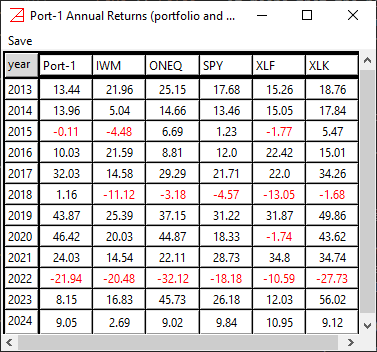
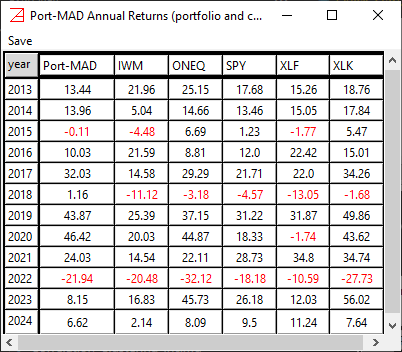
Universal Port
Adjustments for Universal portfolio

diff --git a/azapyGUI/WeightsWindow.py b/azapyGUI/WeightsWindow.py
@@ -16,6 +16,7 @@ from azapyGUI.modelParametersValidation import _validDateMMDDYYYY, _validFloat
 from azapyGUI.GetMktData import GetMktData
 from azapyGUI.mktDataValidation import mkt_today
 from azapyGUI.DF_Window import DF_Window
+import azapyGUI.azHelper as azHelper
 
 
 class WeightsWindow():
@@ -188,7 +189,7 @@ class WeightsWindow():
         for mo in model.optimizer.values():
             if 'hlength' in mo['param'].keys():
                 hlength = max(hlength, mo['param']['hlength'])       
-        sdate = edate - pd.DateOffset(days=np.ceil(hlength * 365.25) + 10)
+        sdate = self._edate - pd.DateOffset(days=np.ceil(hlength * 365.25) + 10)
         self._sdate = config._bday.rollback(sdate).normalize().tz_localize(None)
         
         # provider, force
@@ -196,11 +197,11 @@ class WeightsWindow():
         self._force = self._ent_force.get()
         
         if self._old_param is not None:
-            if [self._sdate, self._provider, self._force] == self._old_param:
+            if [self._edate, self._provider, self._force] == self._old_param:
                 return False
         if (self._dfw is not None) and self._dfw.winfo_exists():
             self._dfw.destroy()
-        self._old_param = [self._sdate, self._provider, self._force]
+        self._old_param = [self._edate, self._provider, self._force]
         return True
             
 
@@ -219,8 +220,8 @@ class WeightsWindow():
     
     def _computeWeights(self):
         portdata = config.PortDataDict[self._pname]
-        mktdata = {symb: config.MktDataDict[symb].mktdata.copy() for symb in portdata.symbols}
-        
+        mktdata = {symb: config.MktDataDict[symb].get_mktdata(self._edate).copy() for symb in portdata.symbols}
+
         optname = list(portdata.optimizer.keys())[0]
         if configModels.get_comptype(optname) == 'standalone':
             fmname = configModels.get_model_family(optname)
@@ -228,12 +229,11 @@ class WeightsWindow():
             eff_param = deepcopy(portdata.optimizer[optname]['param'])
             eff_param['sdate'] = self._sdate
             eff_param['edate'] = self._edate
-            self._pipe = getattr(az, mname)(**portdata.optimizer[optname]['param'])
+            exec(f"self._pipe = {mname}(**eff_param)")
         else:
             model = []
-            
             sel_list = [None] * len(portdata.selectors.keys())
-            for name, vv in portdata.selectors.items():
+            for vv in portdata.selectors.values():
                 sel_list[vv['index']] = vv
             for vv in sel_list:
                 mname = configModels.selector_models[vv['name']]['azapy']
@@ -241,7 +241,7 @@ class WeightsWindow():
                 moo = oo(**vv['param'])
                 model.append(moo)
                 
-            for mopt, vv in portdata.optimizer.items():
+            for vv in portdata.optimizer.values():
                 fmname = configModels.get_model_family(vv['name'])
                 mname = configModels.portfolio_model_family[fmname][vv['name']]['azapy']
                 if mname == 'EWPEngine':
@@ -252,13 +252,13 @@ class WeightsWindow():
                     model.append(moo)
             
             self._pipe = az.ModelPipeline(model)
-            self._weights = self._pipe.getWeights(mktdata, verbose=False)
 
-            if self._pipe.status == 0: return True
-        
-            msg = ('Numerical errors in weights computation. Abort!')
-            tk.messagebox.showwarning("Warning", message=msg, parent=self._window)
-            return False
+        self._weights = self._pipe.getWeights(mktdata, verbose=False)
+        if self._pipe.status == 0: return True
+    
+        msg = 'Numerical errors in weights computation. Abort!'
+        tk.messagebox.showwarning("Warning", message=msg, parent=self._window)
+        return False
 
 
     def _btn_refresh_func(self):
@@ -271,7 +271,7 @@ class WeightsWindow():
                 return
             if not self._computeWeights():
                 return
-        
+
         df = (pd.DataFrame(self._weights) * 100).round(2)
         df.columns = ['weight']
         df.index.name = 'symbol'

diff --git a/azapyGUI/configModels.py b/azapyGUI/configModels.py
@@ -433,8 +433,8 @@ greedy_models = {'Kelly': {'param': {'freq': __freq_val,
                                                              'validate': mpv._validate_nothing,
                                                              'tip': configTips._dirichlet_alpha_param_tip,
                                                              },
-                                         'variance_reduction': {'default': '1',
-                                                                'values': ['0', '1'],
+                                         'variance_reduction': {'default': 'True',
+                                                                'values': ['True', 'False'],
                                                                 'visible': True,
                                                                 'validate': mpv._validate_variance_reduction,
                                                                 'tip': configTips._variance_reduction_param_tip,
@@ -465,7 +465,7 @@ greedy_models = {'Kelly': {'param': {'freq': __freq_val,
                                'validate': [{'dirichlet_alpha': mpv._validate_dirichlet_alpha}],
                                'tip': configTips._Universal_model_tip,
                                'help': configHelps._Universal_model_help,
-                               'azapy': ['UniversalEngine', 'Port_Universal']
+                               'azapy': ['azHelper.UniversalEngineWrap', 'Port_Universal']
                                },
                  }
 

diff --git a/azapyGUI/azHelper.py b/azapyGUI/azHelper.py
@@ -1,0 +1,27 @@
+import pandas as pd
+import azapy as az
+
+import azapyGUI.config as config
+
+# need to mode this to azapy 
+def schedule_date(sdate, edate, freq='Q', fixoffset=-1, **kwargs):
+    qdate = pd.Timestamp(edate).to_period(freq).end_time.normalize().tz_localize(None)
+    noffset = -pd.bdate_range(edate, qdate, freq=config._bday).size + 1 - fixoffset
+    return az.schedule_simple(sdate=sdate, edate=edate, freq=freq, 
+                              noffset=noffset, fixoffset=fixoffset, 
+                              calendar=config.calendar)
+
+# need to incorporate into azapy
+def UniversalEngineWrap(mktdata=None, colname='adjusted', freq='M', name='Universal',
+                 schedule=None, sdate=None, edate='today', noffset=0, 
+                 fixoffset=-1, hlength=12, dirichlet_alpha=None, 
+                 variance_reduction=True, nr_batches=16, mc_paths=100, 
+                 mc_seed=42, verbose=False):
+    
+    fixing_schedule = schedule_date(sdate, edate, freq=freq, fixoffset=fixoffset)
+    return az.UniversalEngine(mktdata=mktdata, colname=colname, freq=freq, 
+                              schedule=fixing_schedule,
+                              sdate=sdate, edate=edate, noffset=noffset, fixoffset=fixoffset, hlength=hlength,
+                              dirichlet_alpha=dirichlet_alpha, variance_reduction=variance_reduction,
+                              nr_batches=nr_batches, mc_paths=mc_paths, mc_seed=mc_seed,
+                              verbose=verbose)

diff --git a/azapyGUI/BacktestComputation.py b/azapyGUI/BacktestComputation.py
@@ -91,7 +91,7 @@ class BacktestComputation:
         
     def _computePort_standalone(self, pname):
         portdata = config.PortDataDict[pname]
-        mktdata = {symb: config.MktDataDict[symb].mktdata.copy() for symb in portdata.symbols}
+        mktdata = {symb: config.MktDataDict[symb].get_mktdata().copy() for symb in portdata.symbols}
         
         optname = list(config.PortDataDict[pname].optimizer.keys())[0]
         fmname = configModels.get_model_family(optname)

diff --git a/azapyGUI/TimeSeriesViewWindow.py b/azapyGUI/TimeSeriesViewWindow.py
@@ -187,9 +187,6 @@ class TimeSeriesViewWindow(tk.Toplevel):
                 if (dd.index[-1] != sds) or (dd.index[0] != ede): 
                     self._isEqualLines = False
                     return
-            
-  
-        print(f"ML {self._isMultiLines} MC {self._isMultiColumns} EQ {self._isEqualLines}", flush=True)
 
 
     def _prep_fig(self):

diff --git a/azapyGUI/MktDataNode.py b/azapyGUI/MktDataNode.py
@@ -28,3 +28,7 @@ class MktDataNode:
         if self._summary is None: self._summary = az.summary_MkTdata(self.mktdata)
         return (self._summary.na_total[0] + self._summary.cont[0]) > 0
     
+    
+    def get_mktdata(self, edate=None):
+        return self.mktdata if edate is None else self.mktdata[self.mktdata.index <= edate]
+    

diff --git a/azapyGUI/modelParametersValidation.py b/azapyGUI/modelParametersValidation.py
@@ -280,7 +280,7 @@ def _validate_dirichlet_alpha(param, ns):
 
 def _validate_variance_reduction(param):
     field = 'variance_reduction'
-    param[field] = int(param[field])
+    param[field] = True if param[field] == 'True' else False
     return True, param[field]
     
 

diff --git a/docs/Quick_Start.md b/docs/Quick_Start.md
@@ -5,9 +5,10 @@ Package installation: *pip install azapyGUI*
 
 ## Start ##
 
-To start the application you need to write the following 2-line python script (let's call it `my_azapy.py`)
+To start the application you need to write the following 2-line python script. 
+For the purpose of this example, let's call it `my_azapy.py`.
 
-```
+```python
 import azapyGUI
 azapyGUI.start()
 ```
@@ -34,7 +35,7 @@ In the first tab, called `Directories`, you must make three choices.
 When saving/loading a project, you will be prompt to this 
 directory (you can always change it). 
 2. `Market Data Directory` - local (buffer) market data directory. Once the historical data is retrieved form 
-the provider, a copy is stored in this directory. Successive calls for the same market data will read data first from 
+the provider, a copy is stored in this directory. Successive calls for the same market data will try first to access data from
 this directory and then, and only if there is a need to update the data, from the provider. This will speed up considerable 
 the computations (in general accessing repeatedly the same provider data over the internet may add up to a 
 considerable amount of time). The market data stored in this directory is not intended to be consumed by other 
@@ -63,7 +64,7 @@ A `Portfolio Edit` window will popup.
 Here we will enter the portfolio information: name, components, and optimization model.
 1. Name - on the entry space, right of label `Edit Portfolio`, replace the suggestion `MyPort` with 
     the name you want for this portfolio (try to chose something short and meaningful for you). For
-    our example let us type `Port-1`. I know, it is not very inspiring or meaningful, but it will
+    our example let us type `Port-MAD`. I know, it is not very inspiring or meaningful, but it will
     help us to navigate this example. 
 2. Portfolio Components - on the left panel enter the symbols of the portfolio components. 
     For our example let's type SPY, ONEQ, IWM, XLK, and XLF. You have to enter one symbol name per cell. 
@@ -90,7 +91,7 @@ Here we will enter the portfolio information: name, components, and optimization
     (although the length of the historical data is only 1 day - hardly enough for any computation). 
 3. Optimization Model - although there are many and some of them very complex choices, for this 
     example we will make a simple choices. On the third drop-down list under the label `Optimization Model:` 
-    click on `mMAD` (mixture Mean Absolute Deviation). An mMAD model parameter window will popup.
+    click on `mMAD` (mixture Mean Absolute Deviation). An mMAD edit model parameter window will popup.
 
 ![alt text](panels/mMAD_model_panel.png)
 
@@ -120,14 +121,14 @@ The `Backtesting` window will popup.
 
 We will accept the default values. Later we will discuss in detail all available options. 
 However, it is worth mentioning a few features now. The name of our portfolio is at the top
-of the screen. In general, `azapyGUI` allows for multiple portfolio backtesting (for performance 
-comparisons). In this case the the list of portfolio names will be visible at the top of
+of the screen. In general, `azapyGUI` allows for simultaneous multiple portfolio backtesting. 
+In this case the the list of portfolio names will be visible at the top of
 the window. End date is set to `today` (*i.e.*, most recent market closing date) and the 
 start date is set to `1/1/2012` (*i.e.*, the first market closing date after, and including, 
 `1/1/2012`). The rebalancing date is set 3 business days before (this is the meaning of 
 `-3` value for `Bday offset` field) the end of the calendaristic quarter (the quarterly reset 
 was defined by the model parameter, *i.e.*, `Q` choice for `freq` value). The fixing date
-(*i.e.*, the closing day relative to witch the portfolio weights are computed) is define 
+(*i.e.*, the closing day relative to witch the portfolio weights are computed) is defined 
 as the closing day before the rebalancing day (*i.e.*, the `-1` value for `Fixing offset` field).
 A check of `Nr Shares int` box, stands for using whole numbers (opposed to fractional)
 of shares (therefore the portfolio will be subject to rebalancing round off errors - in practice they
@@ -164,7 +165,7 @@ Another important `azapyGUI` functionality is the computation of weights and the
 to rebalance an exiting portfolio. 
 
 Let's imagine that we are after today closing and tomorrow we would like to initiate a position in
-`Port-1`. We will need to compute the weights and the number of shares that we need to buy. 
+`Port-MAD`. We will need to compute the weights and the number of shares that we need to buy. 
 To initiate this computations, let's go back to the main panel, right click the mouse on the portfolio 
 name, and select `Rebalance` item. The `Rebalance` window will popup.
 
@@ -176,14 +177,20 @@ You can change this value to an actual amount of dollars you want to allocate to
 Then, if you press the `Weights` button, `azapyGUI` will return a report showing the value of the weights 
 for each portfolio component. This is a useful information to understand the capital allocation. 
 Further, if we press on the `Treading Sheet` button, the transactions report will popup. 
-Here are listed the initial, final, and delta (final-initial) positions for all assets with non zero allocation. 
+Here are listed the initial, final, and delta (final-initial) positions for all assets with non zero allocations. 
 This report can be saved and used next day (rebalancing day) to assist the execute of the 
 actual transactions.
 
-The similar computation for an existing portfolio requires to enter the initial number of 
-shares for each portfolio component and a non zero value for cash only if we add capital to this 
-strategy (a positive amount) or reduce the capital (a negative value). Then, the `Treading Sheet` will
+The similar computation for an existing portfolio requires to enter the initial (existing) number of 
+shares for each portfolio component and a non-zero value for `Cash` only if we want to increase the 
+capital (a positive amount) or reduce the capital (a negative value) for this strategy. Then, the `Treading Sheet` will
 show the right amount of shares (delta position) that will rebalance the portfolio. 
 
 ## Backtesting Multiple Portfolios ##
+
+
+
+## Example of a complex portfolio ##
+
+
 
